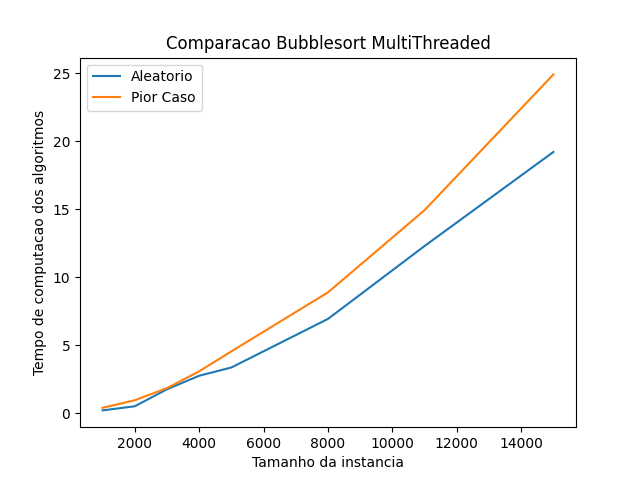
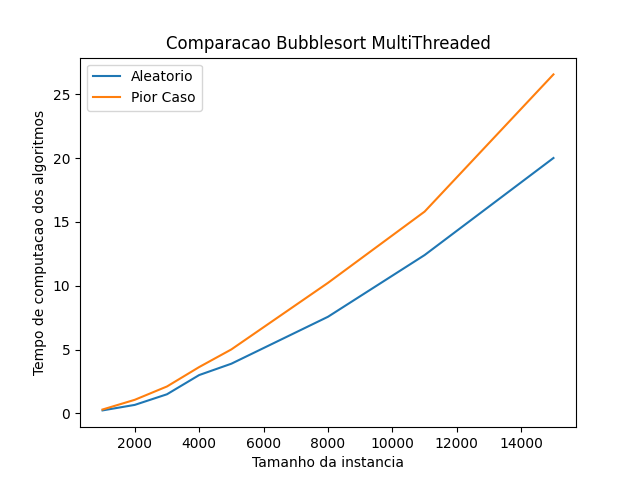
fix test bubble

diff --git a/Bubble/TesteSemParalelizacao.py b/Bubble/TesteSemParalelizacao.py
@@ -78,25 +78,11 @@ if __name__ == "__main__":
     tester = NotParallelizedSortAlgorithmTester()
     random_test_results = tester.random_test(
         [
-            Bubble.crescent_sort,
-            Bubble.crescent_sort,
-            Bubble.crescent_sort,
-            Bubble.crescent_sort,
-            Bubble.crescent_sort,
-            Bubble.crescent_sort,
-            Bubble.crescent_sort,
-            Bubble.crescent_sort
-        ],
+            Bubble.crescent_sort_with_flag
+        ]*8,
         [
-            "Bubble",
-            "Bubble",
-            "Bubble",
-            "Bubble",
-            "Bubble",
-            "Bubble",
-            "Bubble",
-            "Bubble",
-        ],
+            "Bubble"
+        ]*8,
         [
             1000,
             2000,
@@ -110,25 +96,11 @@ if __name__ == "__main__":
     )
     worst_case_test_results = tester.worst_case_test(
         [
-            Bubble.crescent_sort,
-            Bubble.crescent_sort,
-            Bubble.crescent_sort,
-            Bubble.crescent_sort,
-            Bubble.crescent_sort,
-            Bubble.crescent_sort,
-            Bubble.crescent_sort,
-            Bubble.crescent_sort
-        ],
+            Bubble.crescent_sort_with_flag
+        ]*8,
         [
-            "Bubble",
-            "Bubble",
-            "Bubble",
-            "Bubble",
-            "Bubble",
-            "Bubble",
-            "Bubble",
-            "Bubble",
-        ],
+            "Bubble"
+        ]*8,
         [
             1000,
             2000,

diff --git a/Bubble/TesteComParalelizacao.py b/Bubble/TesteComParalelizacao.py
@@ -77,25 +77,11 @@ if __name__ == "__main__":
     tester = ParallelizedSortAlgorithmTester()
     random_test_results = tester.random_test(
         [
-            Bubble.crescent_sort,
-            Bubble.crescent_sort,
-            Bubble.crescent_sort,
-            Bubble.crescent_sort,
-            Bubble.crescent_sort,
-            Bubble.crescent_sort,
-            Bubble.crescent_sort,
-            Bubble.crescent_sort
-        ],
+            Bubble.crescent_sort_with_flag
+        ]*8,
         [
-            "Bubble",
-            "Bubble",
-            "Bubble",
-            "Bubble",
-            "Bubble",
-            "Bubble",
-            "Bubble",
-            "Bubble",
-        ],
+            "Bubble"
+        ]*8,
         [
             1000,
             2000,
@@ -109,25 +95,11 @@ if __name__ == "__main__":
     )
     worst_case_test_results = tester.worst_case_test(
         [
-            Bubble.crescent_sort,
-            Bubble.crescent_sort,
-            Bubble.crescent_sort,
-            Bubble.crescent_sort,
-            Bubble.crescent_sort,
-            Bubble.crescent_sort,
-            Bubble.crescent_sort,
-            Bubble.crescent_sort
-        ],
+            Bubble.crescent_sort_with_flag
+        ]*8,
         [
-            "Bubble",
-            "Bubble",
-            "Bubble",
-            "Bubble",
-            "Bubble",
-            "Bubble",
-            "Bubble",
-            "Bubble",
-        ],
+            "Bubble"
+        ]*8,
         [
             1000,
             2000,
